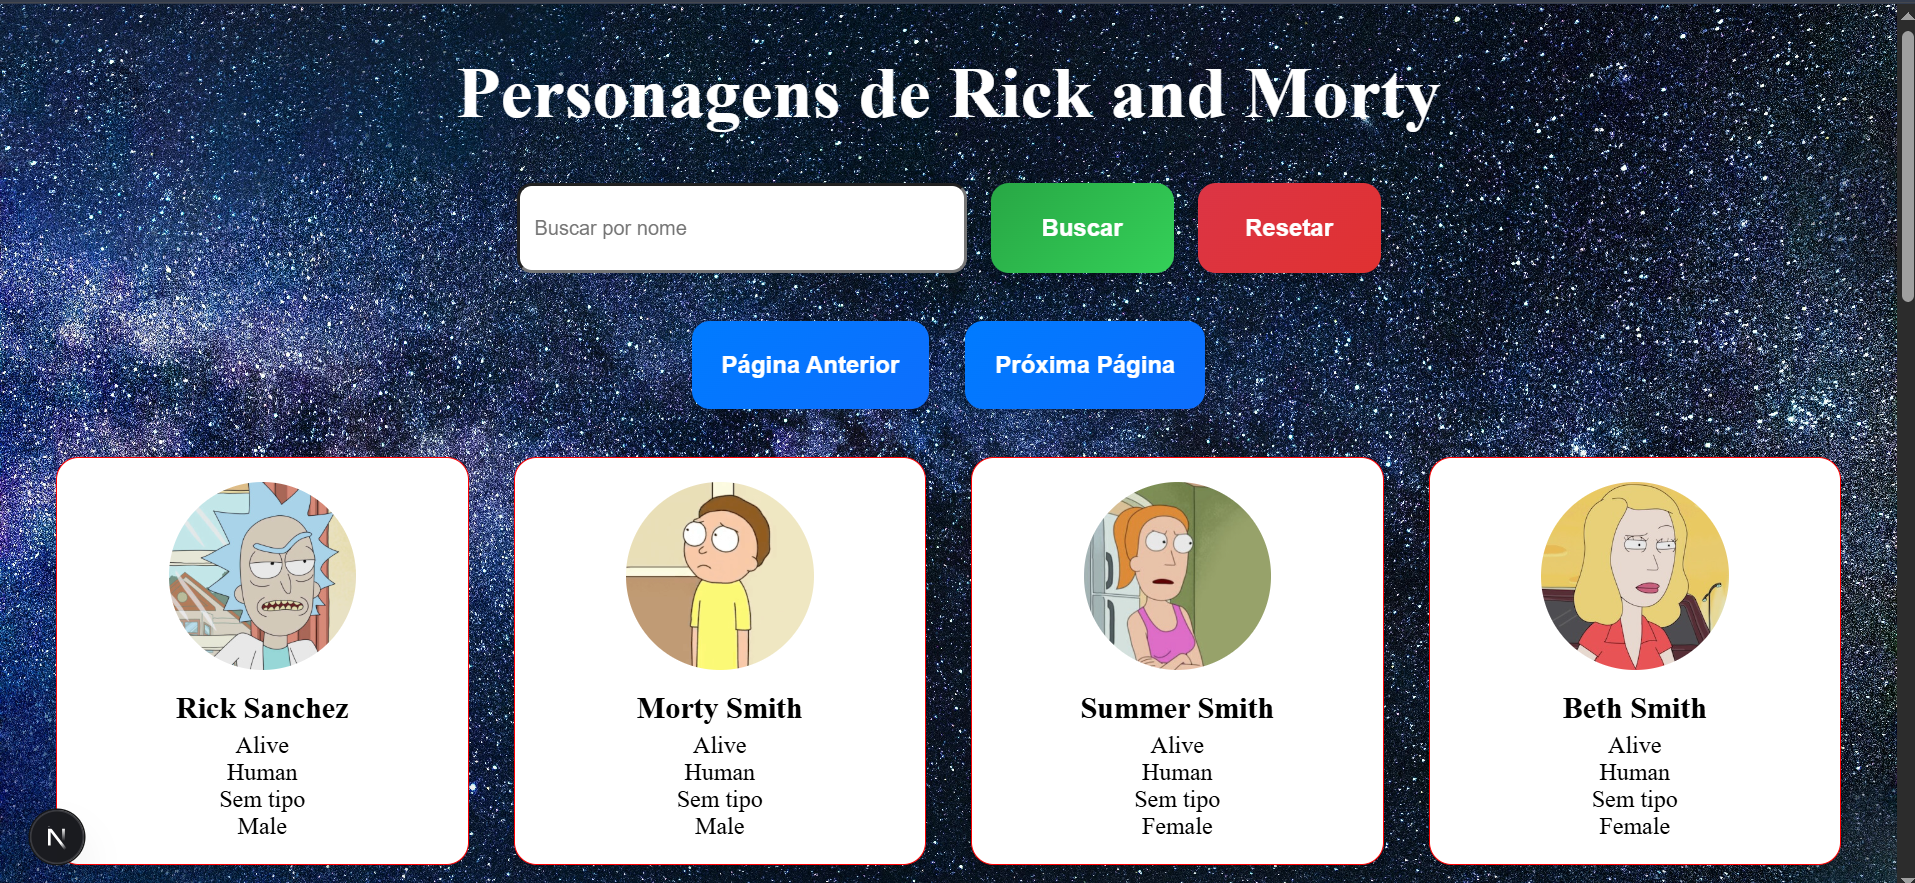
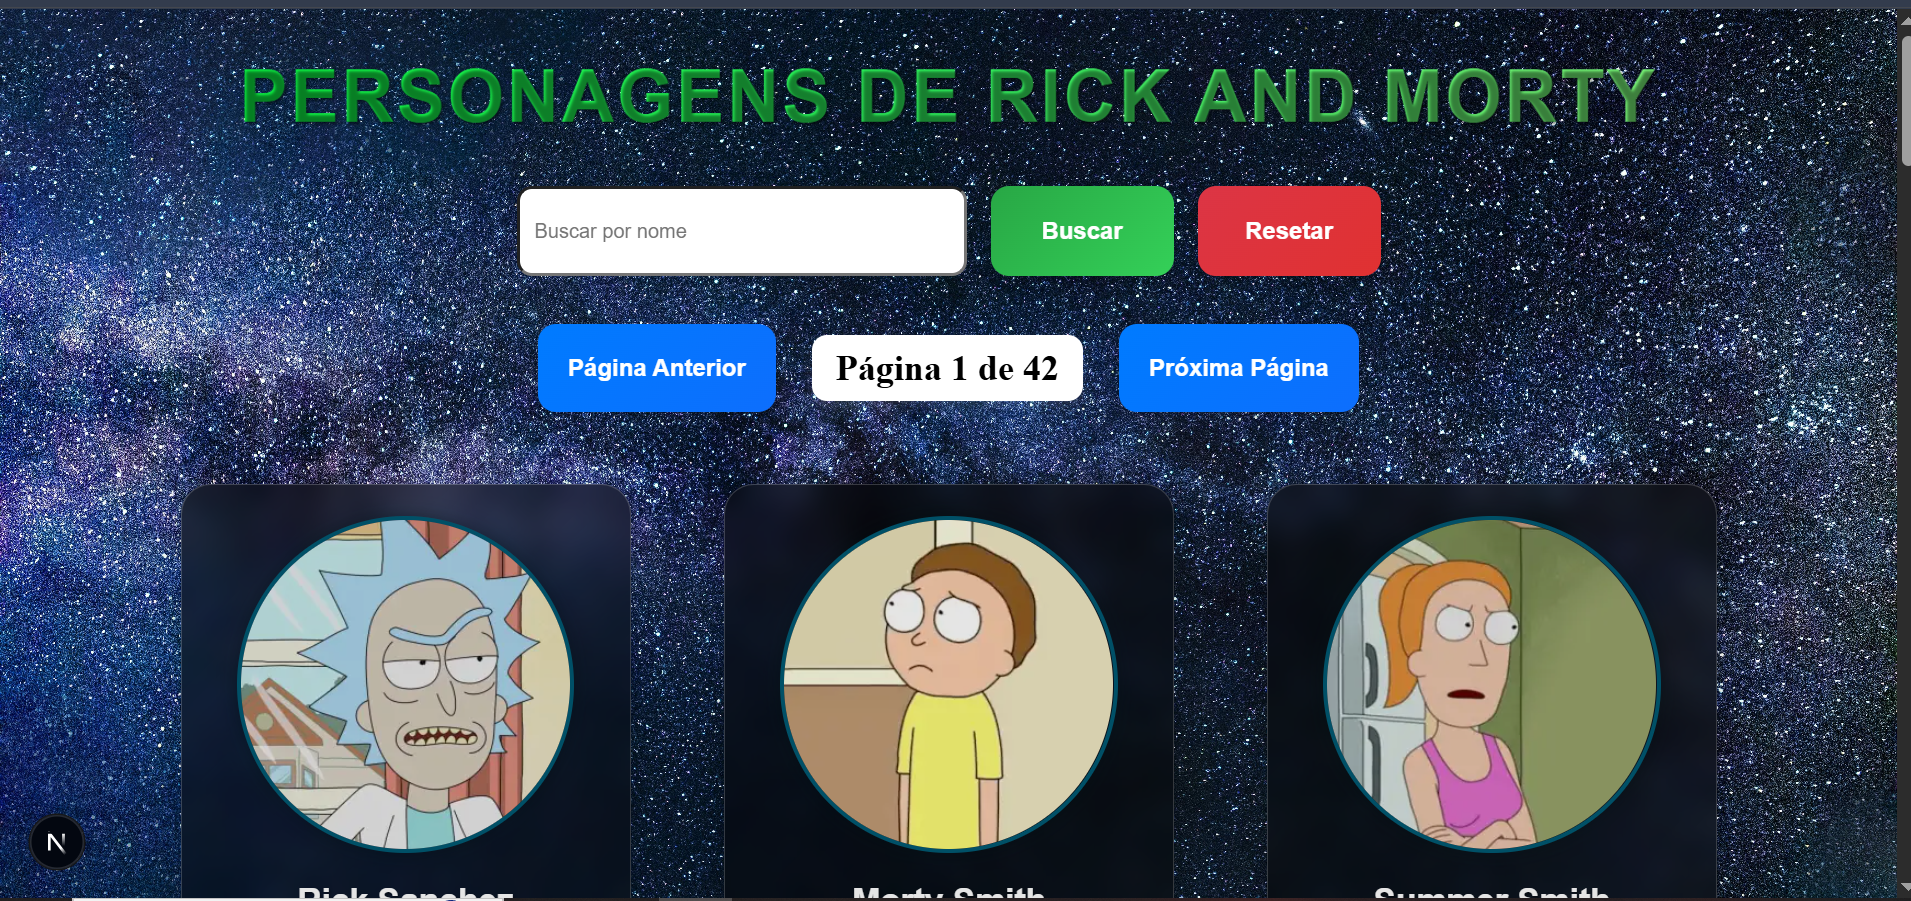
Projeto finalizado

diff --git a/app/home/Home.module.css b/app/home/Home.module.css
@@ -15,8 +15,30 @@
     font-size: 3rem;
     text-align: center;
     margin-bottom: 2rem;
-    color: white;
-  }
+    color: transparent;
+    background: linear-gradient(90deg, #00ff3c, #31ff61, #93ff82);
+    background-clip: text;
+    -webkit-background-clip: text;
+    -webkit-text-fill-color: transparent;
+    animation: pulse 2s infinite;
+    text-shadow: 1px 1px 2px rgba(0, 0, 0, 0.5);
+    font-family: Arial, Helvetica, sans-serif;
+    font-weight: 700;
+    text-transform: uppercase;
+    letter-spacing: 2px;
+}
+
+@keyframes pulse {
+    0% {
+        transform: scale(1);
+    }
+    50% {
+        transform: scale(1.05);
+    }
+    100% {
+        transform: scale(1);
+    }
+}
   
   .controls {
     display: flex;

diff --git a/components/Loader.jsx b/components/Loader.jsx
@@ -4,7 +4,7 @@ import styles from "../styles/Loader.module.css";
     export default function Loader() {
         return (
             <div className={styles.container}>
-                <Image src={"/loader.gif"} alt="Loading 🙂" width={300} height={300} priority className={styles.mage} />
+                <Image src={"/loader.gif"} alt="Loading 🙂" width={300} height={300} priority className={styles.image} />
                 <h1 className={styles.message}>Carregando... Por favor aguarde!!</h1>
             </div>
         );

diff --git a/styles/Loader.module.css b/styles/Loader.module.css
@@ -6,8 +6,8 @@
 }
 
 .image {
-    width: 100px;
-    height: 100px;
+    width: 300px;
+    height: 300px;
     border-radius: 50%;
     background-color: rgba(255, 255, 255, 0.1);
     animation: pulse 1.5s infinite;
